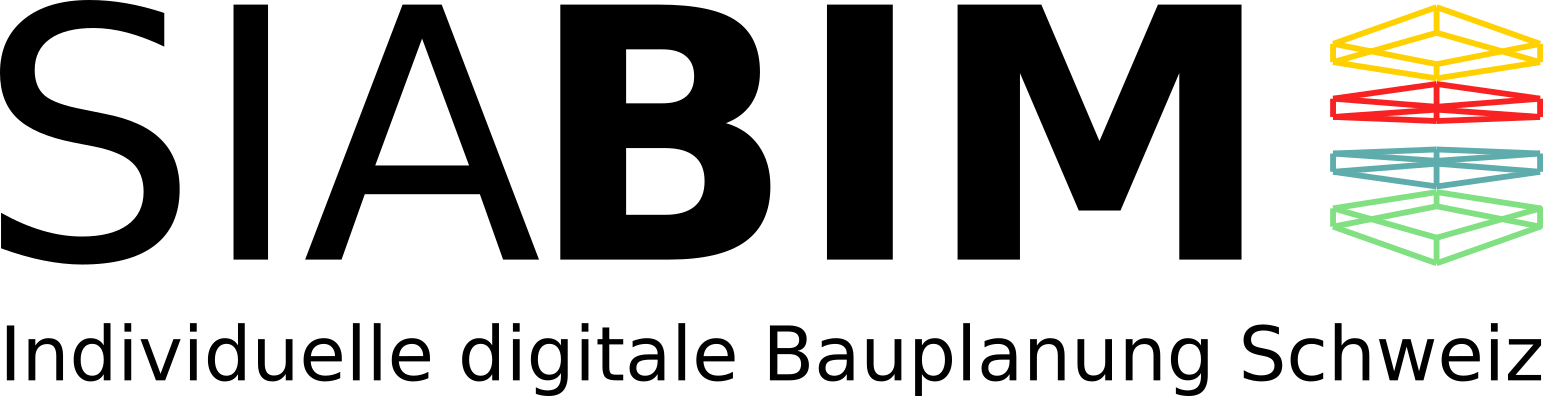
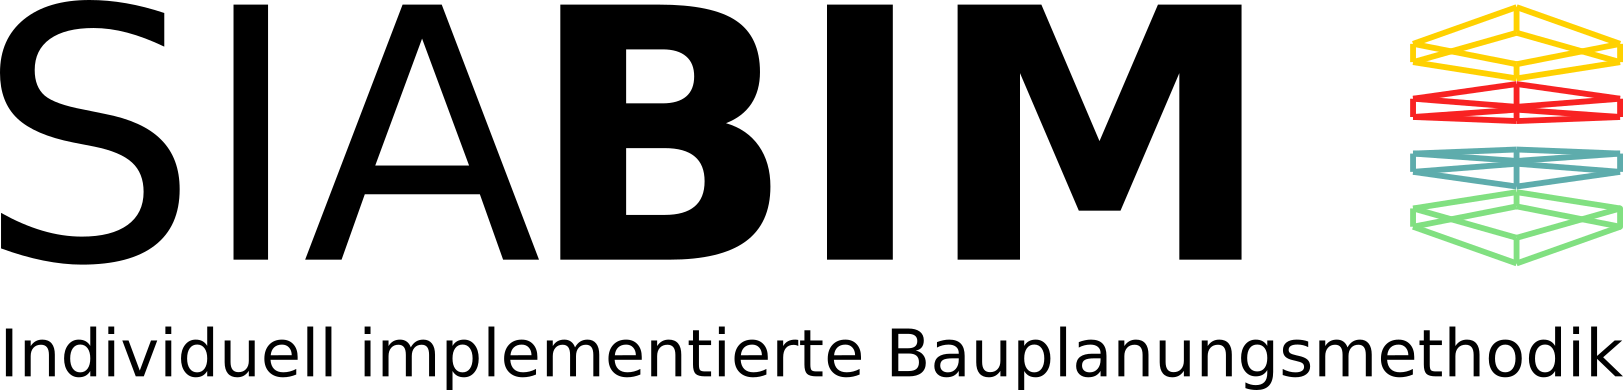
vim startup error log removed

diff --git a/staticfiles/css/production/siabim.min.css b/staticfiles/css/production/siabim.min.css
@@ -1,1 +1,1 @@
-/*! normalize.css v8.0.1 | MIT License | github.com/necolas/normalize.css */html{line-height:1.15;-webkit-text-size-adjust:100%}body{margin:0}main{display:block}h1{font-size:2em;margin:.67em 0}hr{-webkit-box-sizing:content-box;box-sizing:content-box;height:0;overflow:visible}pre{font-family:monospace,monospace;font-size:1em}a{background-color:transparent}abbr[title]{border-bottom:0;text-decoration:underline;-webkit-text-decoration:underline dotted;text-decoration:underline dotted}b,strong{font-weight:bolder}code,kbd,samp{font-family:monospace,monospace;font-size:1em}small{font-size:80%}sub,sup{font-size:75%;line-height:0;position:relative;vertical-align:baseline}sub{bottom:-0.25em}sup{top:-0.5em}img{border-style:none}button,input,optgroup,select,textarea{font-family:inherit;font-size:100%;line-height:1.15;margin:0}button,input{overflow:visible}button,select{text-transform:none}button,[type="button"],[type="reset"],[type="submit"]{-webkit-appearance:button}button::-moz-focus-inner,[type="button"]::-moz-focus-inner,[type="reset"]::-moz-focus-inner,[type="submit"]::-moz-focus-inner{border-style:none;padding:0}button:-moz-focusring,[type="button"]:-moz-focusring,[type="reset"]:-moz-focusring,[type="submit"]:-moz-focusring{outline:1px dotted ButtonText}fieldset{padding:.35em .75em .625em}legend{-webkit-box-sizing:border-box;box-sizing:border-box;color:inherit;display:table;max-width:100%;padding:0;white-space:normal}progress{vertical-align:baseline}textarea{overflow:auto}[type="checkbox"],[type="radio"]{-webkit-box-sizing:border-box;box-sizing:border-box;padding:0}[type="number"]::-webkit-inner-spin-button,[type="number"]::-webkit-outer-spin-button{height:auto}[type="search"]{-webkit-appearance:textfield;outline-offset:-2px}[type="search"]::-webkit-search-decoration{-webkit-appearance:none}::-webkit-file-upload-button{-webkit-appearance:button;font:inherit}details{display:block}summary{display:list-item}template{display:none}[hidden]{display:none}*{-webkit-box-sizing:border-box;box-sizing:border-box}body{background-color:#e1f4e3;width:100%;height:100%;margin:0}#container_main{width:100%;height:100%;max-width:1200px;margin:0 auto;position:relative}#container_main .grid_row:after{display:table;content:"";clear:both}#container_main_row{position:relative}#container_main_menu{position:fixed;float:left}#container_main_menu li{list-style-type:none;color:white}@media(max-width:899px){#container_main_menu{background-color:rgba(245,255,250,0.2);display:none}}@media(min-width:900px) and (max-width:1099px){#container_main_menu{background-color:rgba(255,0,0,0.2);width:220px;height:100%}}@media(min-width:1100px){#container_main_menu{background-color:rgba(255,0,0,0.5);width:220px;height:100%}}#container_main_menu_phone{width:100%}@media(max-width:899px){#container_main_menu_phone{background-color:rgba(245,255,250,0.2);height:100px;background-color:yellow}}@media(min-width:900px) and (max-width:1099px){#container_main_menu_phone{background-color:rgba(255,0,0,0.2);display:none}}@media(min-width:1100px){#container_main_menu_phone{background-color:rgba(255,0,0,0.5);display:none}}@media(max-width:899px){#container_main_content{background-color:rgba(245,255,250,0.2);background-color:blue}}@media(min-width:900px) and (max-width:1099px){#container_main_content{background-color:rgba(255,0,0,0.2);background-color:green;float:right;height:100%;width:calc(100% - 220px)}}@media(min-width:1100px){#container_main_content{background-color:rgba(255,0,0,0.5);background-color:green;float:right;height:100%;width:calc(100% - 220px)}}@media(max-width:899px){#container_main_content_phone{background-color:rgba(245,255,250,0.2)}}@media(min-width:900px) and (max-width:1099px){#container_main_content_phone{background-color:rgba(255,0,0,0.2);display:none}}@media(min-width:1100px){#container_main_content_phone{background-color:rgba(255,0,0,0.5);display:none}}#container_footer_row{width:100%;height:25px;position:absolute;bottom:0;text-align:center}#container_footer_row a{width:80px;padding:5px 5px;display:inline-block;text-decoration:none}.header_main{background-image:url("siabim_web.png");background-position:right;background-origin:padding-box;background-repeat:no-repeat;background-size:contain;width:90%;height:65px;margin:50px auto;padding:5px}*{-webkit-box-sizing:border-box;box-sizing:border-box}body{background-color:#e1f4e3;width:100%;height:100%;margin:0}#container_main{width:100%;height:100%;max-width:1200px;margin:0 auto;position:relative}#container_main .grid_row:after{display:table;content:"";clear:both}#container_main_row{position:relative}#container_main_menu{position:fixed;float:left}#container_main_menu li{list-style-type:none;color:white}@media(max-width:899px){#container_main_menu{background-color:rgba(245,255,250,0.2);display:none}}@media(min-width:900px) and (max-width:1099px){#container_main_menu{background-color:rgba(255,0,0,0.2);width:220px;height:100%}}@media(min-width:1100px){#container_main_menu{background-color:rgba(255,0,0,0.5);width:220px;height:100%}}#container_main_menu_phone{width:100%}@media(max-width:899px){#container_main_menu_phone{background-color:rgba(245,255,250,0.2);height:100px;background-color:yellow}}@media(min-width:900px) and (max-width:1099px){#container_main_menu_phone{background-color:rgba(255,0,0,0.2);display:none}}@media(min-width:1100px){#container_main_menu_phone{background-color:rgba(255,0,0,0.5);display:none}}@media(max-width:899px){#container_main_content{background-color:rgba(245,255,250,0.2);background-color:blue}}@media(min-width:900px) and (max-width:1099px){#container_main_content{background-color:rgba(255,0,0,0.2);background-color:green;float:right;height:100%;width:calc(100% - 220px)}}@media(min-width:1100px){#container_main_content{background-color:rgba(255,0,0,0.5);background-color:green;float:right;height:100%;width:calc(100% - 220px)}}@media(max-width:899px){#container_main_content_phone{background-color:rgba(245,255,250,0.2)}}@media(min-width:900px) and (max-width:1099px){#container_main_content_phone{background-color:rgba(255,0,0,0.2);display:none}}@media(min-width:1100px){#container_main_content_phone{background-color:rgba(255,0,0,0.5);display:none}}#container_footer_row{width:100%;height:25px;position:absolute;bottom:0;text-align:center}#container_footer_row a{width:80px;padding:5px 5px;display:inline-block;text-decoration:none}html{width:100%;height:100%}
+/*! normalize.css v8.0.1 | MIT License | github.com/necolas/normalize.css */html{line-height:1.15;-webkit-text-size-adjust:100%}body{margin:0}main{display:block}h1{font-size:2em;margin:.67em 0}hr{-webkit-box-sizing:content-box;box-sizing:content-box;height:0;overflow:visible}pre{font-family:monospace,monospace;font-size:1em}a{background-color:transparent}abbr[title]{border-bottom:0;text-decoration:underline;-webkit-text-decoration:underline dotted;text-decoration:underline dotted}b,strong{font-weight:bolder}code,kbd,samp{font-family:monospace,monospace;font-size:1em}small{font-size:80%}sub,sup{font-size:75%;line-height:0;position:relative;vertical-align:baseline}sub{bottom:-0.25em}sup{top:-0.5em}img{border-style:none}button,input,optgroup,select,textarea{font-family:inherit;font-size:100%;line-height:1.15;margin:0}button,input{overflow:visible}button,select{text-transform:none}button,[type="button"],[type="reset"],[type="submit"]{-webkit-appearance:button}button::-moz-focus-inner,[type="button"]::-moz-focus-inner,[type="reset"]::-moz-focus-inner,[type="submit"]::-moz-focus-inner{border-style:none;padding:0}button:-moz-focusring,[type="button"]:-moz-focusring,[type="reset"]:-moz-focusring,[type="submit"]:-moz-focusring{outline:1px dotted ButtonText}fieldset{padding:.35em .75em .625em}legend{-webkit-box-sizing:border-box;box-sizing:border-box;color:inherit;display:table;max-width:100%;padding:0;white-space:normal}progress{vertical-align:baseline}textarea{overflow:auto}[type="checkbox"],[type="radio"]{-webkit-box-sizing:border-box;box-sizing:border-box;padding:0}[type="number"]::-webkit-inner-spin-button,[type="number"]::-webkit-outer-spin-button{height:auto}[type="search"]{-webkit-appearance:textfield;outline-offset:-2px}[type="search"]::-webkit-search-decoration{-webkit-appearance:none}::-webkit-file-upload-button{-webkit-appearance:button;font:inherit}details{display:block}summary{display:list-item}template{display:none}[hidden]{display:none}*{-webkit-box-sizing:border-box;box-sizing:border-box}body{background-color:#e1f4e3;width:100%;height:100%;margin:0}#container_main{width:100%;height:100%;max-width:1200px;margin:0 auto;position:relative}#container_main .grid_row:after{display:table;content:"";clear:both}#container_main_row{position:relative}#container_main_menu{position:fixed;float:left}#container_main_menu li{list-style-type:none;color:white}@media(max-width:899px){#container_main_menu{background-color:rgba(245,255,250,0.2);display:none}}@media(min-width:900px) and (max-width:1099px){#container_main_menu{background-color:rgba(255,0,0,0.2);width:220px;height:100%}}@media(min-width:1100px){#container_main_menu{background-color:rgba(255,0,0,0.5);width:220px;height:100%}}#container_main_menu_phone{width:100%}@media(max-width:899px){#container_main_menu_phone{background-color:rgba(245,255,250,0.2);height:100px;background-color:yellow}}@media(min-width:900px) and (max-width:1099px){#container_main_menu_phone{background-color:rgba(255,0,0,0.2);display:none}}@media(min-width:1100px){#container_main_menu_phone{background-color:rgba(255,0,0,0.5);display:none}}@media(max-width:899px){#container_main_content{background-color:rgba(245,255,250,0.2);background-color:blue}}@media(min-width:900px) and (max-width:1099px){#container_main_content{background-color:rgba(255,0,0,0.2);background-color:green;float:right;height:100%;width:calc(100% - 220px)}}@media(min-width:1100px){#container_main_content{background-color:rgba(255,0,0,0.5);background-color:green;float:right;height:100%;width:calc(100% - 220px)}}@media(max-width:899px){#container_main_content_phone{background-color:rgba(245,255,250,0.2)}}@media(min-width:900px) and (max-width:1099px){#container_main_content_phone{background-color:rgba(255,0,0,0.2);display:none}}@media(min-width:1100px){#container_main_content_phone{background-color:rgba(255,0,0,0.5);display:none}}#container_footer_row{width:100%;height:25px;position:absolute;bottom:0;text-align:center}#container_footer_row a{width:80px;padding:5px 5px;display:inline-block;text-decoration:none}.header_main{background-image:url("siabim_web.png");background-position:right;background-origin:padding-box;background-repeat:no-repeat;background-size:contain;width:90%;height:150px;margin:50px auto;padding:5px}*{-webkit-box-sizing:border-box;box-sizing:border-box}body{background-color:#e1f4e3;width:100%;height:100%;margin:0}#container_main{width:100%;height:100%;max-width:1200px;margin:0 auto;position:relative}#container_main .grid_row:after{display:table;content:"";clear:both}#container_main_row{position:relative}#container_main_menu{position:fixed;float:left}#container_main_menu li{list-style-type:none;color:white}@media(max-width:899px){#container_main_menu{background-color:rgba(245,255,250,0.2);display:none}}@media(min-width:900px) and (max-width:1099px){#container_main_menu{background-color:rgba(255,0,0,0.2);width:220px;height:100%}}@media(min-width:1100px){#container_main_menu{background-color:rgba(255,0,0,0.5);width:220px;height:100%}}#container_main_menu_phone{width:100%}@media(max-width:899px){#container_main_menu_phone{background-color:rgba(245,255,250,0.2);height:100px;background-color:yellow}}@media(min-width:900px) and (max-width:1099px){#container_main_menu_phone{background-color:rgba(255,0,0,0.2);display:none}}@media(min-width:1100px){#container_main_menu_phone{background-color:rgba(255,0,0,0.5);display:none}}@media(max-width:899px){#container_main_content{background-color:rgba(245,255,250,0.2);background-color:blue}}@media(min-width:900px) and (max-width:1099px){#container_main_content{background-color:rgba(255,0,0,0.2);background-color:green;float:right;height:100%;width:calc(100% - 220px)}}@media(min-width:1100px){#container_main_content{background-color:rgba(255,0,0,0.5);background-color:green;float:right;height:100%;width:calc(100% - 220px)}}@media(max-width:899px){#container_main_content_phone{background-color:rgba(245,255,250,0.2)}}@media(min-width:900px) and (max-width:1099px){#container_main_content_phone{background-color:rgba(255,0,0,0.2);display:none}}@media(min-width:1100px){#container_main_content_phone{background-color:rgba(255,0,0,0.5);display:none}}#container_footer_row{width:100%;height:25px;position:absolute;bottom:0;text-align:center}#container_footer_row a{width:80px;padding:5px 5px;display:inline-block;text-decoration:none}html{width:100%;height:100%}

diff --git a/staticfiles/css/production/siabim.css b/staticfiles/css/production/siabim.css
@@ -424,7 +424,7 @@ body {
   background-repeat: no-repeat;
   background-size: contain;
   width: 90%;
-  height: 65px;
+  height: 150px;
   margin: 50px auto;
   padding: 5px; }
 

diff --git a/staticfiles/css/development/sass/header.sass b/staticfiles/css/development/sass/header.sass
@@ -6,6 +6,6 @@
   background-repeat: no-repeat
   background-size: contain
   width: 90%
-  height: 65px
+  height: 150px
   margin: 50px auto
   padding: 5px
